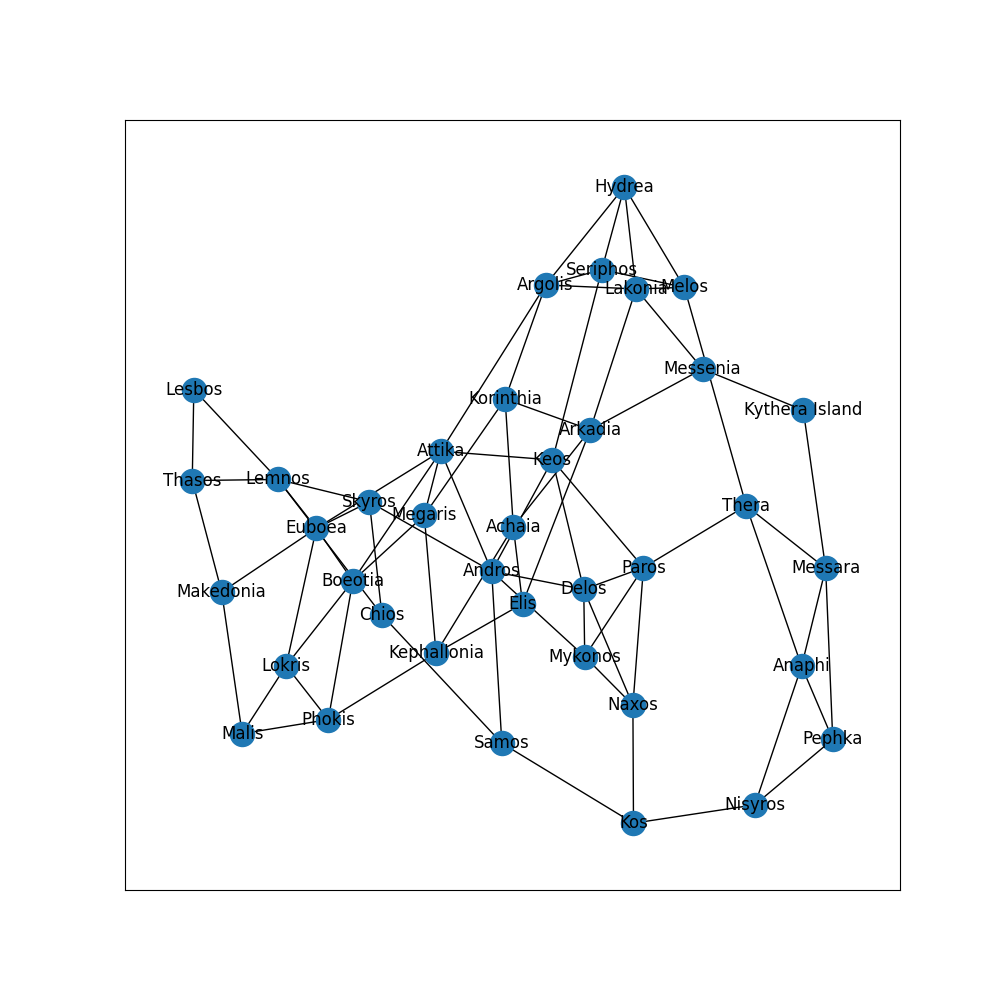
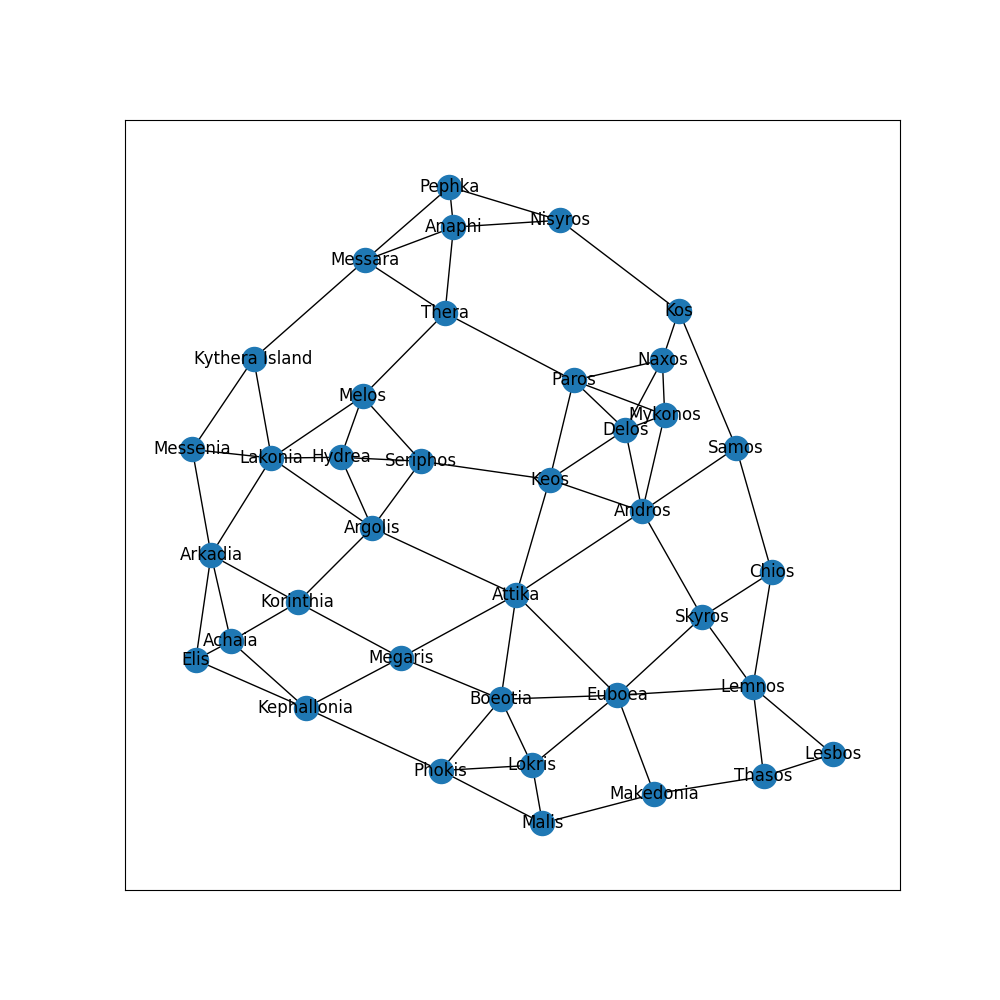
Adicionando aresta faltante e atualizando grafo com ela

diff --git a/back/CitiesGraph.py b/back/CitiesGraph.py
@@ -116,6 +116,7 @@ G.add_edge('Thera', 'Anaphi')
 G.add_edge('Thera', 'Messara')
 G.add_edge('Anaphi', 'Messara')
 G.add_edge('Kythera Island', 'Messara')
+G.add_edge('Kythera Island', 'Lakonia')
 G.add_edge('Kos', 'Nisyros')
 G.add_edge('Anaphi', 'Nisyros')
 G.add_edge('Anaphi', 'Pephka')
@@ -194,6 +195,7 @@ G['Thera']['Anaphi']['peso'] = 1
 G['Thera']['Messara']['peso'] = 3
 G['Anaphi']['Messara']['peso'] = 4
 G['Kythera Island']['Messara']['peso'] = 9
+G['Kythera Island']['Lakonia']['peso'] = 9
 G['Kos']['Nisyros']['peso'] = 2
 G['Anaphi']['Nisyros']['peso'] = 1
 G['Anaphi']['Pephka']['peso'] = 3

diff --git a/back/graphMainUse.py b/back/graphMainUse.py
@@ -65,6 +65,7 @@ def cityGraphUCS(begin, destiny):
   G.add_edge('Argolis', 'Attika', 4)
   G.add_edge('Argolis', 'Lakonia', 13)
   G.add_edge('Lakonia', 'Hydrea', 15)
+  G.add_edge('Lakonia', 'Kythera Island', 7)
   G.add_edge('Lakonia', 'Melos', 16)
   G.add_edge('Hydrea', 'Seriphos', 1)
   G.add_edge('Hydrea', 'Melos', 2)
